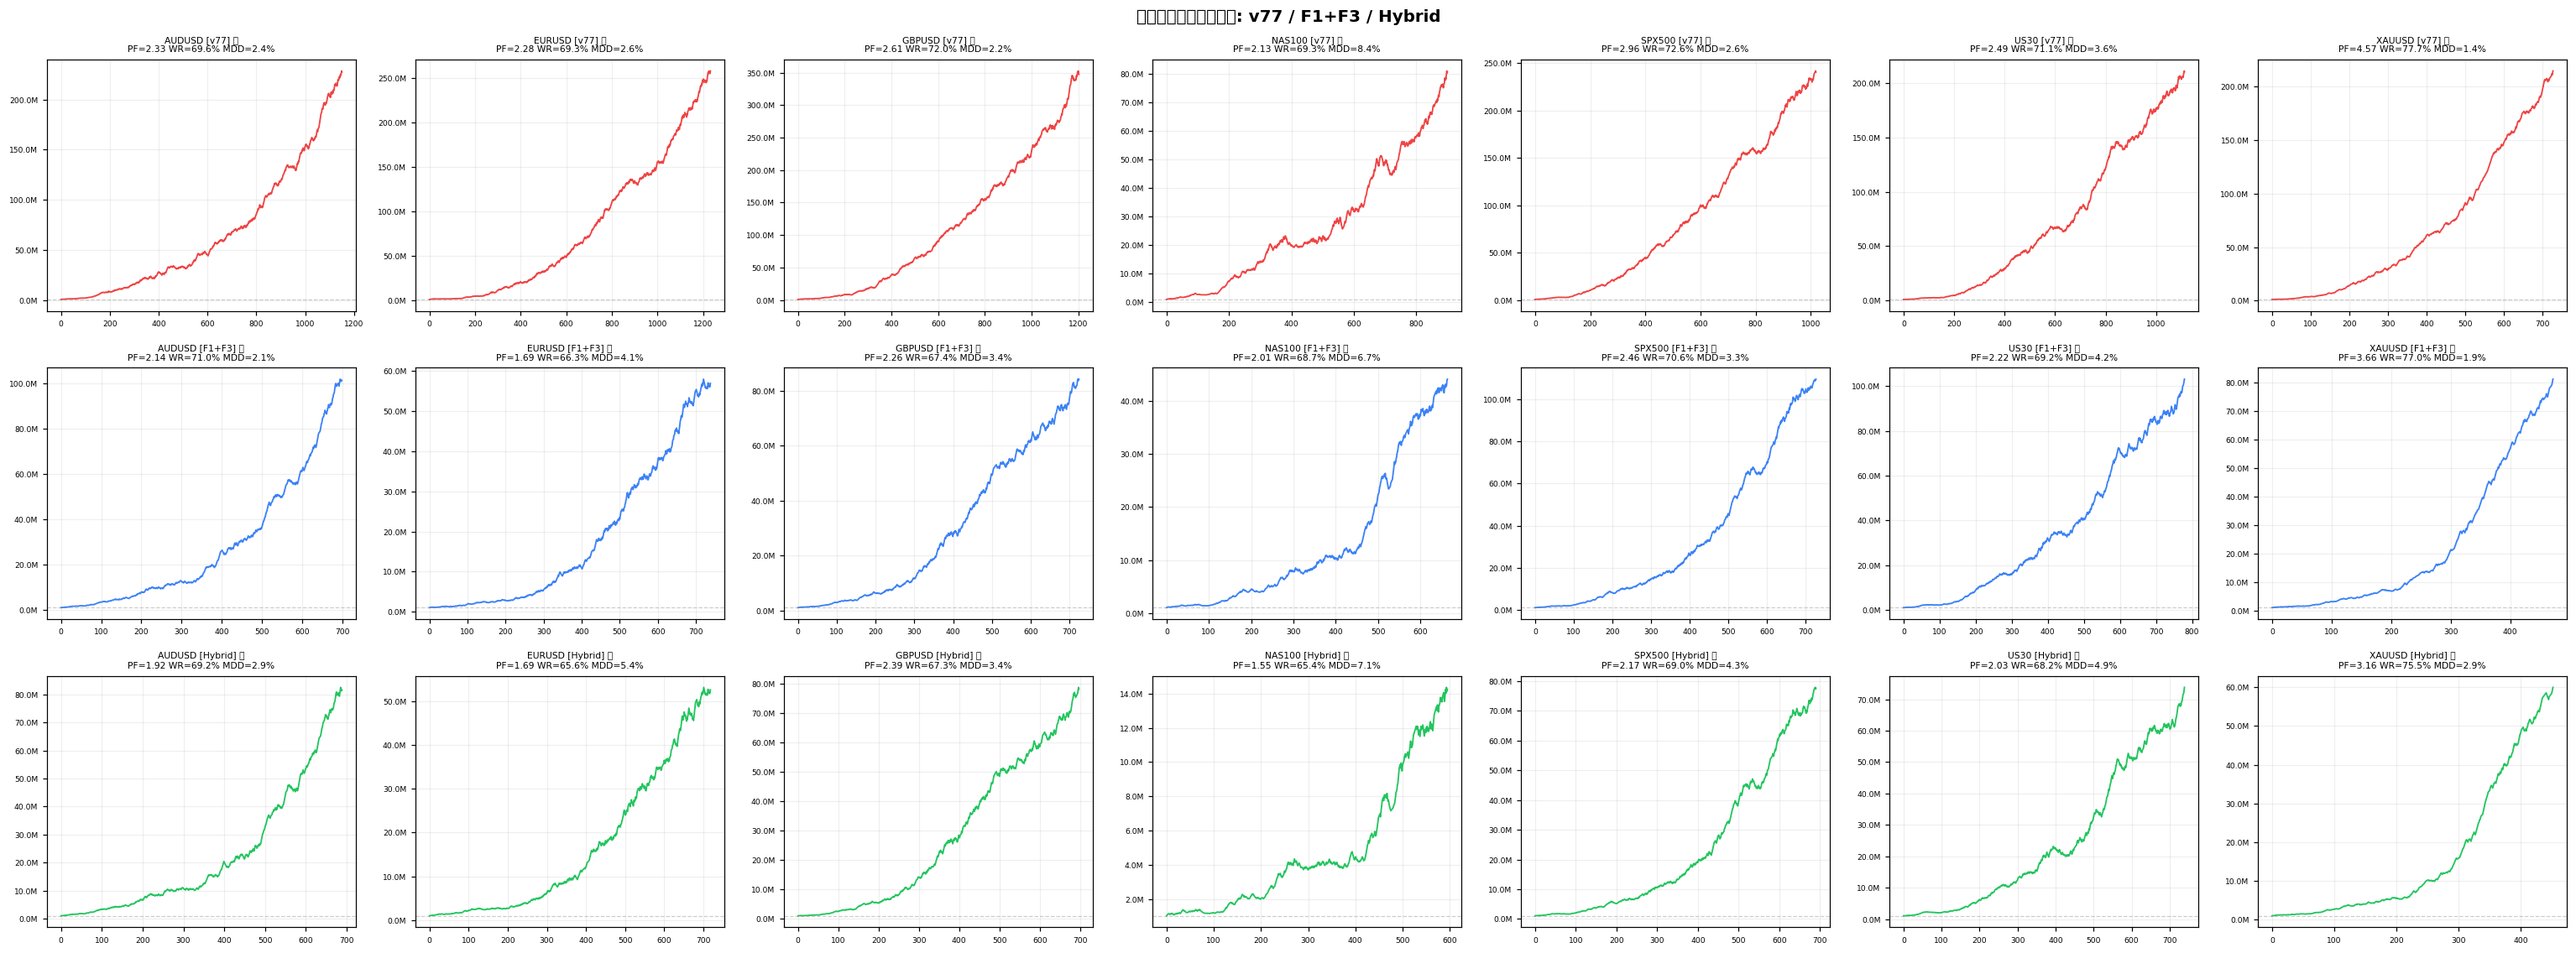
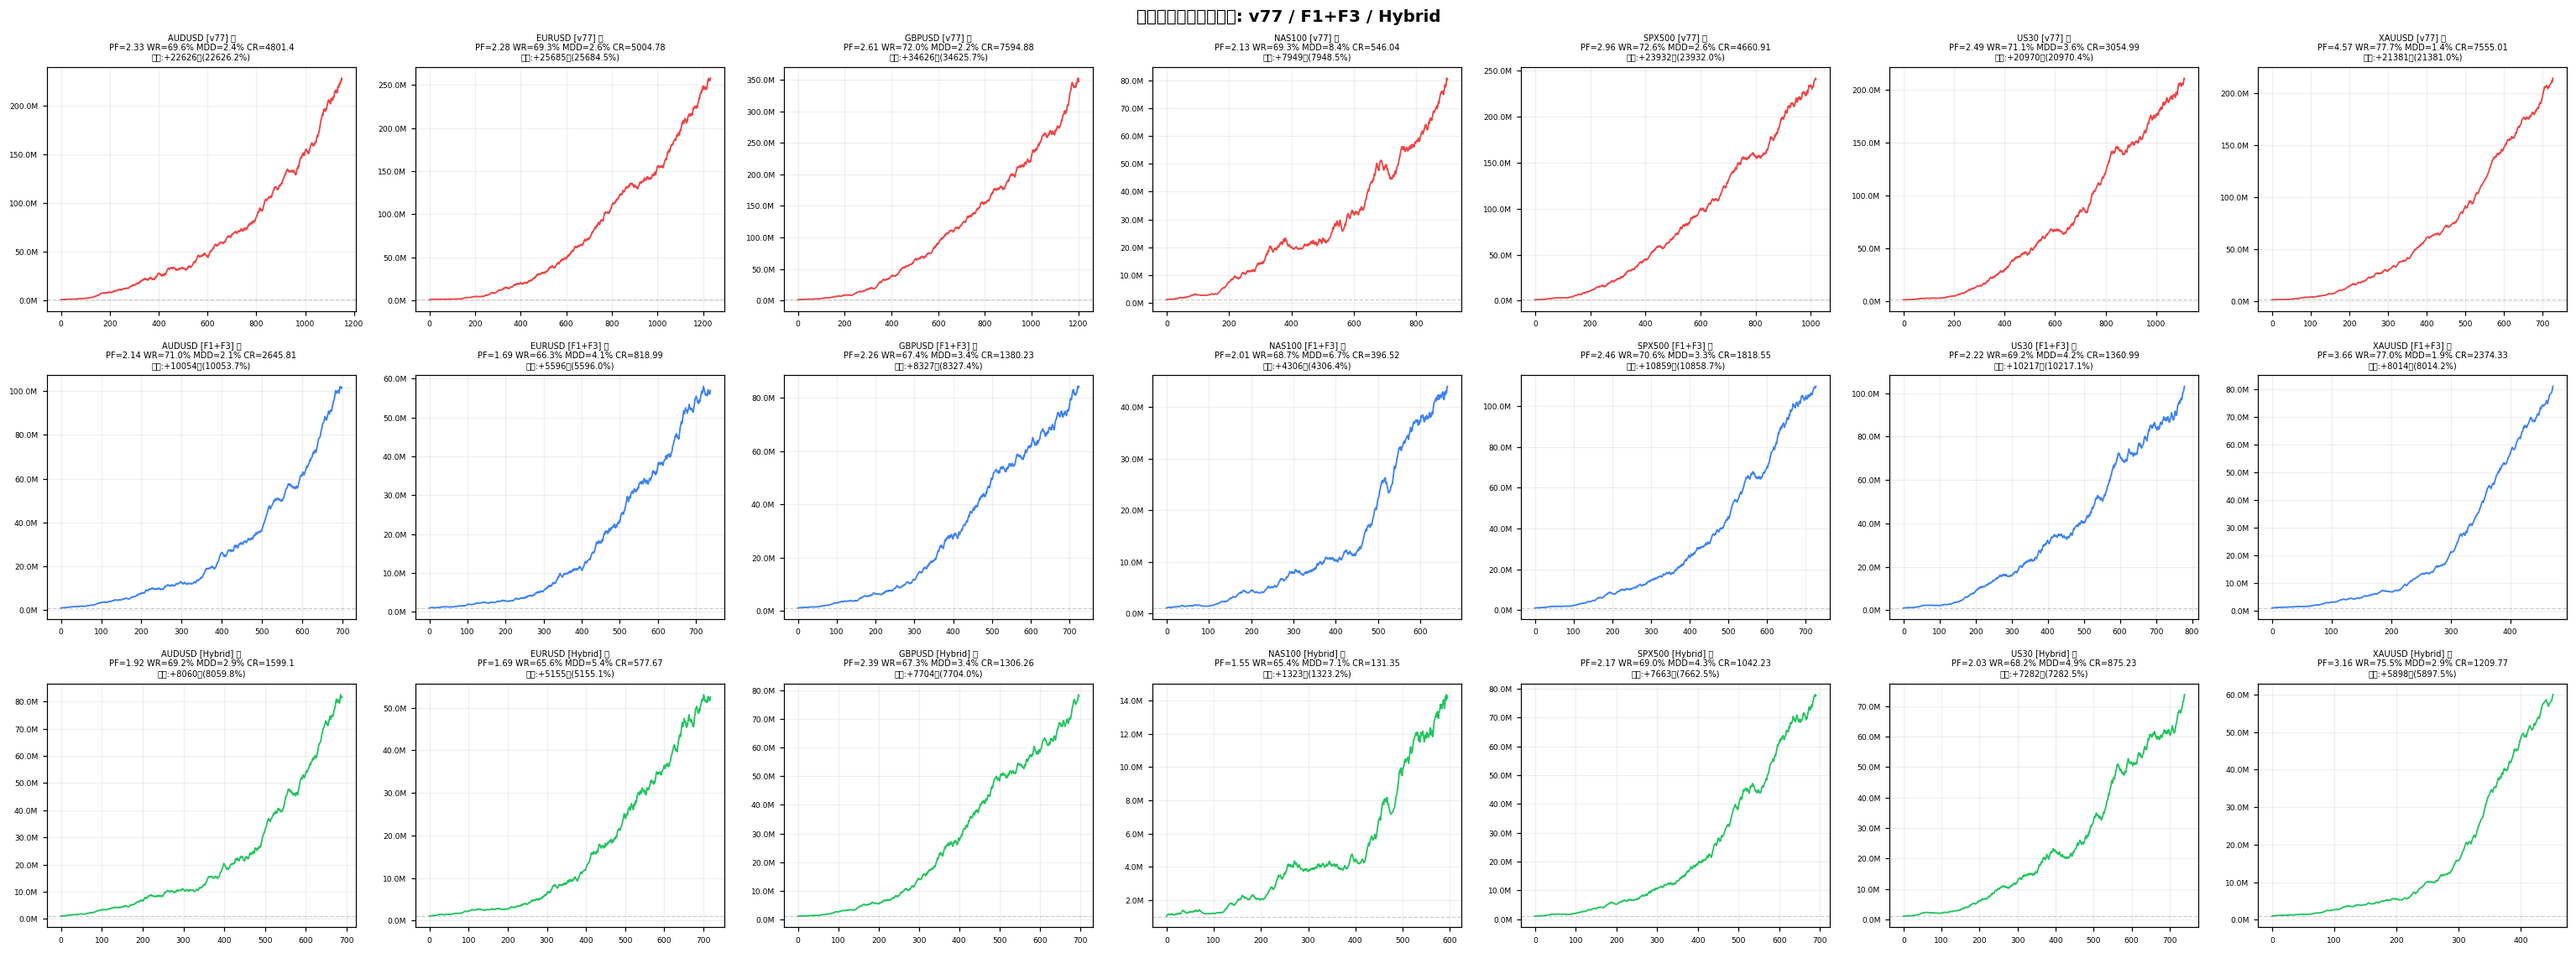
feat: CR(カルマーレシオ)・最終利益・MDD円を比較表に追加
- calc_stats(): CR=年率リターン÷MDD%、最終利益(円・%)、MDD(円)を追加
- 進行中ログ: MDD万円・CR・Sharpe・利益(万)を表示
- 最終テーブル: 列を拡張（MDD万/最終利益万/利益%/CR/Sharpe）
- チャートサブタイトル: CR・利益(万)を追加
- CRとSharpeは別指標として両方表示（CR=ドローダウン対比、Sharpe=ボラ対比）

https://claude.ai/code/session_011hFmDBu7pxieSYtPYpF1W2

diff --git a/scripts/backtest_strategy_comparison.py b/scripts/backtest_strategy_comparison.py
@@ -415,6 +415,22 @@ def calc_stats(trades: list[dict], symbol: str, strategy: str) -> dict:
     monthly_sharpe  = monthly.mean() / monthly.std() * np.sqrt(12) \
                       if monthly.std() > 0 else 0.0
 
+    # 最終利益（円）
+    final_equity  = eq[-1]
+    final_profit  = final_equity - INIT_CASH
+    final_profit_pct = final_profit / INIT_CASH * 100
+
+    # MDD円
+    mdd_jpy_val = mdd_jpy  # already computed above
+
+    # CR = 年率リターン / MDD%（Calmar Ratio）
+    # データ期間を trade の entry_time から推定
+    t_start = df["entry_time"].min()
+    t_end   = df["entry_time"].max()
+    years   = max((t_end - t_start).days / 365.25, 1/12)
+    annual_ret_pct = (((final_equity / INIT_CASH) ** (1 / years)) - 1) * 100
+    calmar = annual_ret_pct / mdd_pct if mdd_pct > 0 else float("inf")
+
     # Kelly
     avg_win  = wins["pnl_pips"].mean() if len(wins) > 0 else 0
     avg_loss = abs(losses["pnl_pips"].mean()) if len(losses) > 0 else 1
@@ -441,30 +457,35 @@ def calc_stats(trades: list[dict], symbol: str, strategy: str) -> dict:
     tf_counts = df["tf"].value_counts().to_dict()
 
     return {
-        "symbol":          symbol,
-        "strategy":        strategy,
-        "n":               n,
-        "win_rate":        round(win_rate, 1),
-        "pf":              round(pf, 2),
-        "mdd_pct":         round(mdd_pct, 1),
-        "kelly":           round(kelly, 3),
-        "plus_months":     round(plus_months_pct, 1),
-        "monthly_sharpe":  round(monthly_sharpe, 2),
-        "max_consec_loss": max_consec,
-        "avg_win_pips":    round(avg_win, 1),
-        "avg_loss_pips":   round(avg_loss, 1),
-        "spread_pips":     SYMBOL_CONFIG[symbol]["spread"],
-        "tf_1h":           tf_counts.get("1h", 0),
-        "tf_4h":           tf_counts.get("4h", 0),
-        "pass_pf":         passed["pf"],
-        "pass_winrate":    passed["win_rate"],
-        "pass_mdd":        passed["mdd_pct"],
-        "pass_kelly":      passed["kelly"],
-        "pass_months":     passed["plus_months"],
-        "pass_count":      pass_count,
-        "all_pass":        all(passed.values()),
-        "status":          "PASS" if all(passed.values()) else f"FAIL({pass_count}/5)",
-        "equity_curve":    df["equity_after"].tolist(),
+        "symbol":           symbol,
+        "strategy":         strategy,
+        "n":                n,
+        "win_rate":         round(win_rate, 1),
+        "pf":               round(pf, 2),
+        "mdd_pct":          round(mdd_pct, 1),
+        "mdd_jpy":          round(mdd_jpy_val),
+        "final_profit_jpy": round(final_profit),
+        "final_profit_pct": round(final_profit_pct, 1),
+        "annual_ret_pct":   round(annual_ret_pct, 1),
+        "calmar":           round(calmar, 2),
+        "kelly":            round(kelly, 3),
+        "plus_months":      round(plus_months_pct, 1),
+        "monthly_sharpe":   round(monthly_sharpe, 2),
+        "max_consec_loss":  max_consec,
+        "avg_win_pips":     round(avg_win, 1),
+        "avg_loss_pips":    round(avg_loss, 1),
+        "spread_pips":      SYMBOL_CONFIG[symbol]["spread"],
+        "tf_1h":            tf_counts.get("1h", 0),
+        "tf_4h":            tf_counts.get("4h", 0),
+        "pass_pf":          passed["pf"],
+        "pass_winrate":     passed["win_rate"],
+        "pass_mdd":         passed["mdd_pct"],
+        "pass_kelly":       passed["kelly"],
+        "pass_months":      passed["plus_months"],
+        "pass_count":       pass_count,
+        "all_pass":         all(passed.values()),
+        "status":           "PASS" if all(passed.values()) else f"FAIL({pass_count}/5)",
+        "equity_curve":     df["equity_after"].tolist(),
     }
 
 
@@ -491,9 +512,14 @@ def plot_comparison(all_results: list[dict], symbols: list[str]):
                 ax.plot(eq, color=colors[strat], linewidth=1.2)
                 ax.axhline(y=INIT_CASH, color="gray", linestyle="--", alpha=0.4, lw=0.8)
                 status_mark = "✅" if r["all_pass"] else "❌"
+                profit_str = f"+{r['final_profit_jpy']/1e4:.0f}万" \
+                             if r['final_profit_jpy'] >= 0 \
+                             else f"{r['final_profit_jpy']/1e4:.0f}万"
                 ax.set_title(f"{sym} [{strat}] {status_mark}\n"
-                             f"PF={r['pf']} WR={r['win_rate']}% MDD={r['mdd_pct']}%",
-                             fontsize=7)
+                             f"PF={r['pf']} WR={r['win_rate']}% "
+                             f"MDD={r['mdd_pct']}% CR={r['calmar']}\n"
+                             f"利益:{profit_str}({r['final_profit_pct']}%)",
+                             fontsize=6.5)
             else:
                 ax.set_title(f"{sym} [{strat}] — N/A", fontsize=7)
                 ax.text(0.5, 0.5, "No Data", ha="center", va="center",
@@ -551,21 +577,28 @@ def main():
             trades = simulate_trades(sym, sigs, data_1m)
             stats  = calc_stats(trades, sym, strat)
             all_results.append(stats)
-            print(f"  {strat:<8}: N={stats['n']:>4}, "
+            profit_str = f"+{stats['final_profit_jpy']/1e4:.0f}万" \
+                     if stats['final_profit_jpy'] >= 0 \
+                     else f"{stats['final_profit_jpy']/1e4:.0f}万"
+        print(f"  {strat:<8}: N={stats['n']:>4}, "
                   f"WR={stats['win_rate']:>5.1f}%, "
                   f"PF={stats['pf']:>5.2f}, "
-                  f"MDD={stats['mdd_pct']:>5.1f}%, "
-                  f"Kelly={stats['kelly']:>5.3f}, "
-                  f"+月={stats['plus_months']:>5.1f}%  "
+                  f"MDD={stats['mdd_pct']:>4.1f}%({stats['mdd_jpy']/1e4:.0f}万), "
+                  f"CR={stats['calmar']:>5.2f}, "
+                  f"Sharpe={stats['monthly_sharpe']:>5.2f}, "
+                  f"利益={profit_str}({stats['final_profit_pct']:+.1f}%)  "
                   f"→ {stats['status']}")
 
     # ── 結果テーブル ──────────────────────────────────────────
-    print("\n" + "=" * 78)
+    W = 105
+    print("\n" + "=" * W)
     print("【合格基準】 PF≥3.0 / WR≥65% / MDD≤20% / Kelly≥0.45 / +月≥90%")
-    print("=" * 78)
+    print("CR=カルマーレシオ（年率リターン÷MDD%）  Sharpe=月次シャープレシオ（×√12）")
+    print("=" * W)
     print(f"{'銘柄':<8} {'戦略':<8} {'N':>5} {'WR%':>6} {'PF':>6} "
-          f"{'MDD%':>6} {'Kelly':>7} {'+月%':>6} {'Sharpe':>7}  判定")
-    print("-" * 78)
+          f"{'MDD%':>5} {'MDD(万)':>7} {'最終利益(万)':>11} {'利益%':>6} "
+          f"{'CR':>6} {'Sharpe':>7} {'Kelly':>7} {'+月%':>6}  判定")
+    print("-" * W)
 
     best_per_symbol: dict[str, dict] = {}
 
@@ -581,10 +614,15 @@ def main():
             k_m   = "K○"  if r["pass_kelly"]    else "K×"
             mo_m  = "M○"  if r["pass_months"]   else "M×"
             flags = f"{pf_m} {wr_m} {mdd_m} {k_m} {mo_m}"
+            profit_str = f"+{r['final_profit_jpy']/1e4:.0f}" \
+                         if r['final_profit_jpy'] >= 0 \
+                         else f"{r['final_profit_jpy']/1e4:.0f}"
             print(f"{sym:<8} {r['strategy']:<8} {r['n']:>5} "
                   f"{r['win_rate']:>5.1f}% {r['pf']:>6.2f} "
-                  f"{r['mdd_pct']:>5.1f}% {r['kelly']:>7.3f} "
-                  f"{r['plus_months']:>5.1f}% {r['monthly_sharpe']:>7.2f}  "
+                  f"{r['mdd_pct']:>4.1f}% {r['mdd_jpy']/1e4:>7.1f} "
+                  f"{profit_str:>11} {r['final_profit_pct']:>+5.1f}% "
+                  f"{r['calmar']:>6.2f} {r['monthly_sharpe']:>7.2f} "
+                  f"{r['kelly']:>7.3f} {r['plus_months']:>5.1f}%  "
                   f"{mark}  [{flags}]")
 
         # 最良戦略を記録（pass_count→pf優先）
@@ -599,9 +637,14 @@ def main():
     approved = []
     for sym, r in best_per_symbol.items():
         mark = "✅" if r["all_pass"] else "❌"
+        profit_str = f"+{r['final_profit_jpy']/1e4:.0f}万" \
+                     if r['final_profit_jpy'] >= 0 \
+                     else f"{r['final_profit_jpy']/1e4:.0f}万"
         print(f"{mark} {sym:<8}: {r['strategy']:<8} "
               f"PF={r['pf']}, WR={r['win_rate']}%, "
-              f"MDD={r['mdd_pct']}%, Kelly={r['kelly']}, "
+              f"MDD={r['mdd_pct']}%, CR={r['calmar']}, "
+              f"Sharpe={r['monthly_sharpe']}, "
+              f"利益={profit_str}({r['final_profit_pct']:+.1f}%), "
               f"N={r['n']}")
         if r["all_pass"]:
             approved.append({"symbol": sym, "strategy": r["strategy"],
